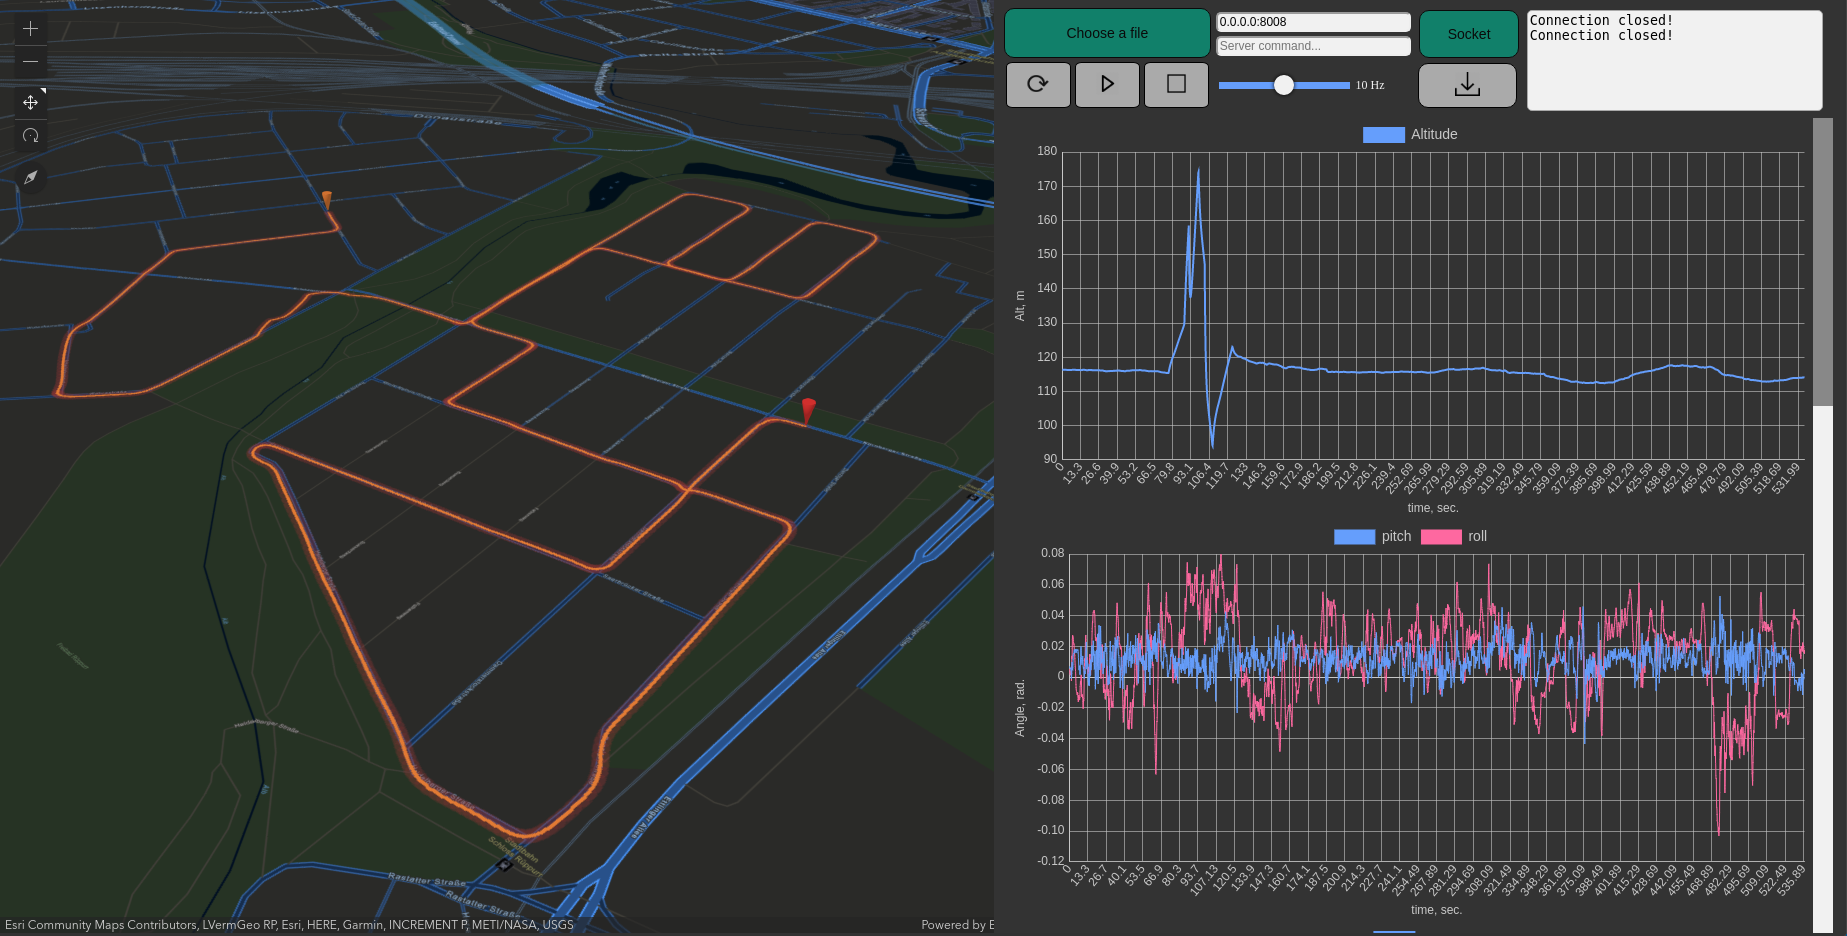
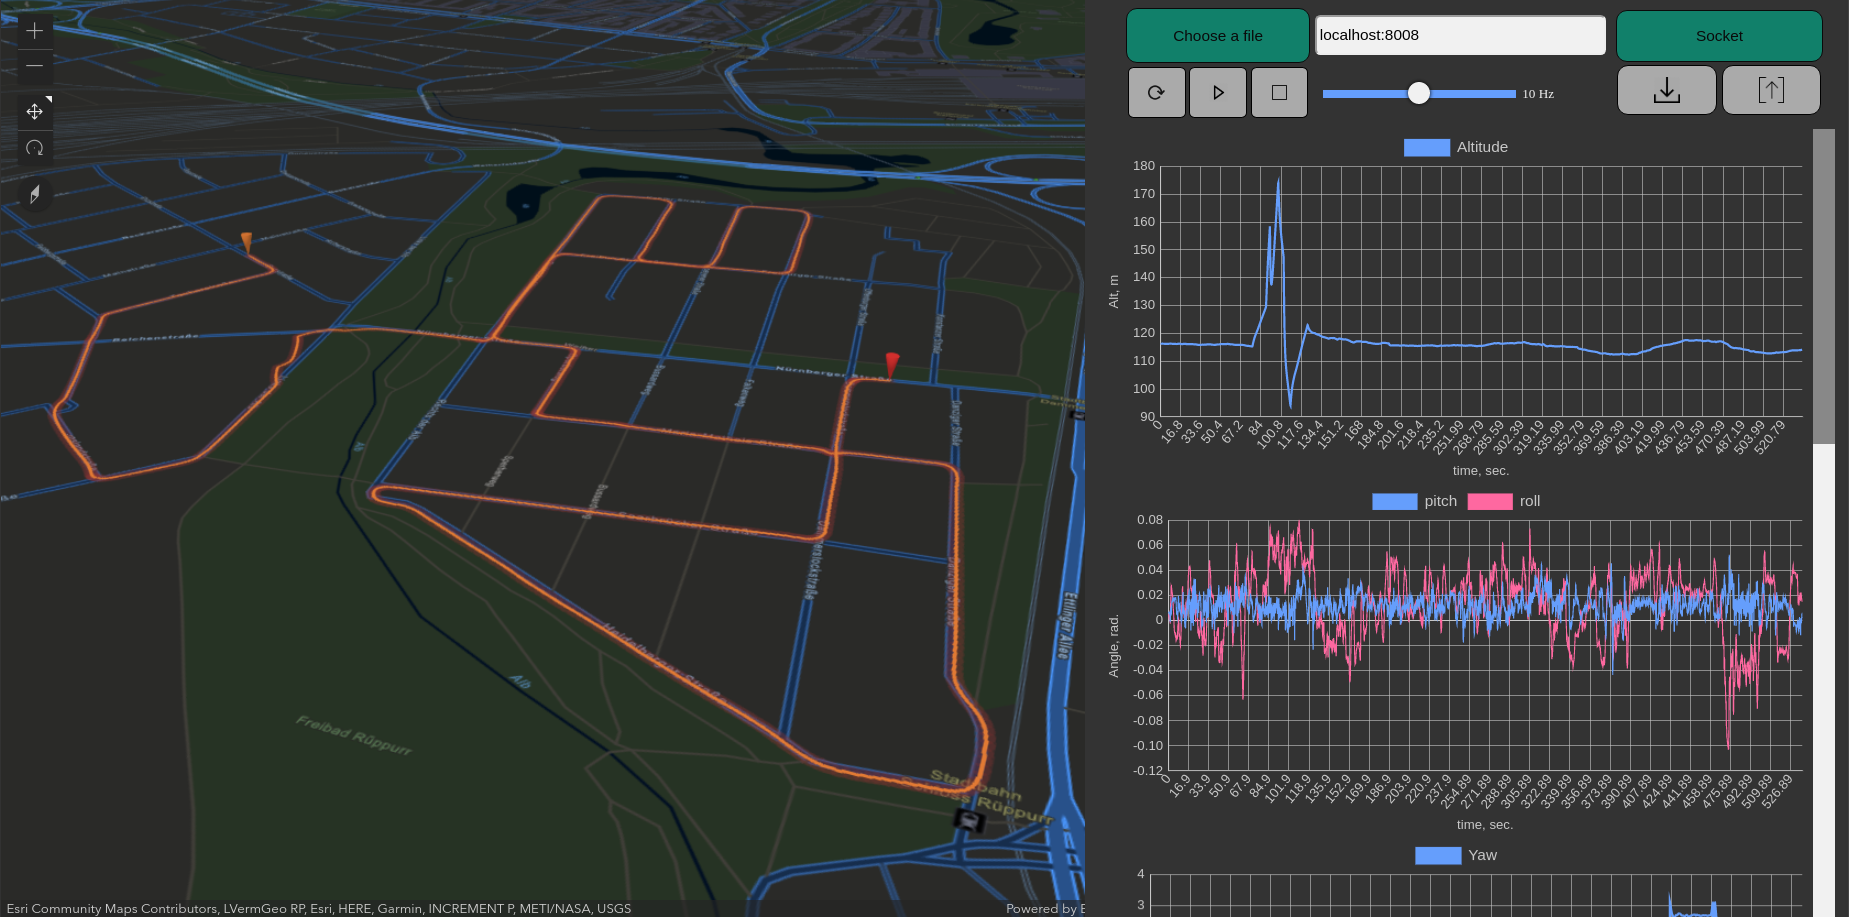
config uploading UI added; dropped text areas

diff --git a/client/css/style.css b/client/css/style.css
@@ -40,7 +40,7 @@ html, body {
 
 #map-view {
     position: absolute;
-    width: 55%;
+    width: 60%;
     top: 0;
     bottom: 0;
     left: 0;
@@ -50,7 +50,7 @@ html, body {
 
 .charts-block {
     position: absolute;
-    width: 45%;
+    width: 40%;
     right: 0;
     top: 0;
     bottom: 0; 
@@ -74,6 +74,7 @@ html, body {
     height: 100px;
     width: 100%;
     padding-bottom: 10px;
+    padding-left: 4%;
 }
 
 .buttons-block {
@@ -89,9 +90,11 @@ html, body {
     margin-bottom: 1%;
 }
 #inp-file-button {
+    position: relative;
     height: 100%;
     width: 100%;
-    position: relative;
+    margin-right: 1%;
+    
     color: black; 
     --inpBtnColor: #009578;
     --inpBtnColorHover: #00b28f;
@@ -129,7 +132,7 @@ html, body {
 }
 
 .button-img {
-    /* display: block; */
+    display: block;
     margin-left: auto;
     margin-right: auto;
 }
@@ -153,7 +156,7 @@ html, body {
 #server-command-block {
     position: relative;
     top: 2%;
-    width: 37.5%;
+    width: 70%; 
     height: 100%;
     float: left;
 }
@@ -163,31 +166,33 @@ html, body {
     width: 100%;
 }
 
-#server-input-fields {
+.server-input-field {
     position: relative;
     float: left;
-    width: 61%;
+    width: 55%;
     height: 60%;
-}
 
-.server-input-field {
-    margin-right: 0;
-    margin-left: 2.5%;
+    margin-left: 1%;
+    margin-right: 1%;
     margin-top: 1%;
     margin-bottom: 1%;
-    height: 48%;
-    width: 100%;
+
     background-color: #f1f1f1;
     border-radius: 5px;
     padding-left: 2px;
-    font-size: 12px;
+    font-size: 14px;
 }
 
 #server-start-button {
-    width: 32%;
-    height: 95%;
     position: relative;
-    float: right;
+    /* float: right; */
+    display: inline-block;
+    width: 40%;
+    height: 95%;
+    /* margin-right: 1%; */
+    /* margin-right: 0; */
+    margin-left: 1%;
+
     color: black; 
     --sendColor: #009578;
     --sendColorHover: #00b28f;
@@ -198,7 +203,6 @@ html, body {
     cursor: pointer;
     text-align: center;
     font-size: 14px; 
-    margin-right: 1%;
 }
 
 #server-start-button:hover {
@@ -217,7 +221,7 @@ html, body {
     position: relative;
     display: inline-block;
     margin-left: 2%;
-    width: 64.5%;
+    width: 60%;
     top: 30%; 
 }
         
@@ -248,7 +252,7 @@ html, body {
         
 #range-output {
     display: inline-block;
-    width: 29%;
+    width: 20%;
     color: #f1f1f1;
     margin-top: 0.5%;
     font-size: 12px;
@@ -259,8 +263,8 @@ html, body {
     position: relative;
     display: inline-block;
     border: 1px solid #000;
-    margin-top: 1%;
-    width: 32%;
+    /* margin-top: 1%; */
+    width: 20%;
     margin-right: 1%;
     border-radius: 10px;
     background-color: #aaaaaa;
@@ -271,6 +275,27 @@ html, body {
 }
 
 #download-img {
+    max-height: 60%;
+    width: 30%;
+}
+
+#upload-config {
+    height: 90%;
+    position: relative;
+    display: inline-block;
+    border: 1px solid #000;
+    /* margin-top: 1%; */
+    width: 20%;
+    margin-right: 1%;
+    border-radius: 10px;
+    background-color: #aaaaaa;
+}   
+
+#upload-config:hover {
+    background-color: #bbbbbb;
+}
+
+#upload-config-img {
     max-height: 60%;
     width: 30%;
 }

diff --git a/server/app.ts b/server/app.ts
@@ -1,46 +1,54 @@
-"use strict";
-var __importDefault = (this && this.__importDefault) || function (mod) {
-    return (mod && mod.__esModule) ? mod : { "default": mod };
-};
-Object.defineProperty(exports, "__esModule", { value: true });
-const express_1 = __importDefault(require("express"));
-const path_1 = __importDefault(require("path"));
-const app = express_1.default();
-const port = 3000;
-app.use(express_1.default.static("client"));
-app.get("/", function (req, res) {
+import express from "express";
+import path from "path";
+import { ConnectionOptions } from "tls";
+
+const app: express.Application = express();
+const port: number = 3000;
+
+app.use(express.static("client"));
+
+app.get("/", function(req: express.Request, res: express.Response) {
     res.header("Access-Control-Allow-Origin", "*");
     res.header("Content-Type", "text/html");
-    res.sendFile(path_1.default.join(__dirname + '/client/index.html'));
+    res.sendFile(path.join(__dirname+'/client/index.html'));
     res.status(200);
     res.end();
 });
-const server = app.listen(port, function (error) {
+
+const server = app.listen(port, function(error: Error) {
     if (error) {
         console.log("Something went wrong: ", error);
-    }
-    else {
+    } else {
         console.log(`Server is listening on port: ${port} `);
     }
 });
-setInterval(() => server.getConnections((err, connections) => console.log(`${connections} connections currently open`)), 5000);
+
+setInterval(() => server.getConnections(
+    (err: Error | null, connections: number) => console.log(`${connections} connections currently open`)
+), 5000);
+
 process.on('SIGTERM', shutDown);
 process.on('SIGINT', shutDown);
-let connections = [];
+
+let connections: any[] = [];
+
 server.on('connection', (connection) => {
     connections.push(connection);
     connection.on('close', () => connections = connections.filter(curr => curr !== connection));
 });
+
 function shutDown() {
     console.log('Received kill signal, shutting down gracefully');
     server.close(() => {
         console.log('Closed out remaining connections');
         process.exit(0);
     });
+
     setTimeout(() => {
         console.error('Could not close connections in time, forcefully shutting down');
         process.exit(1);
     }, 10000);
+
     connections.forEach(curr => curr.end());
     setTimeout(() => connections.forEach(curr => curr.destroy()), 5000);
 }

diff --git a/client/index.html b/client/index.html
@@ -41,9 +41,7 @@
 
             <div id="server-command-block">
                 <div id="server-input">
-                    <div id="server-input-fields">
-                        <input type="text" class="server-input-field" id="server-address-inp" placeholder="Server address..." value="localhost:8008">
-                    </div>
+                    <input type="text" class="server-input-field" id="server-address-inp" placeholder="Server address..." value="localhost:8008">
 
                     <button type="button" id="server-start-button">Socket</button>
                 </div>
@@ -57,6 +55,10 @@
 
                     <button type="button" id="download">
                         <img src="./img/download.png" class="button-img" id="download-img"/>
+                    </button>
+
+                    <button type="button" id="upload-config">
+                        <img src="./img/upload.png" class="button-img" id="upload-config-img"/>
                     </button>
                 </div>
             </div>

diff --git a/README.md b/README.md
@@ -17,11 +17,9 @@ In order to work with custom-formatted data, change implementation of `parseData
  - `Download` - is for downloading parsed data to the local machine;  
 
 ### To do:  
- - add server allerts instead of a text-block;  
- - keep only the server address field - drop a server command field;  
  - add button to upload config file to the embedded server;  
 
- - make graphs in real-time manner;  
+ - make graphs in a real-time manner;  
  - migrate to the typescript;  
 
  - make data parser for custom data;  
